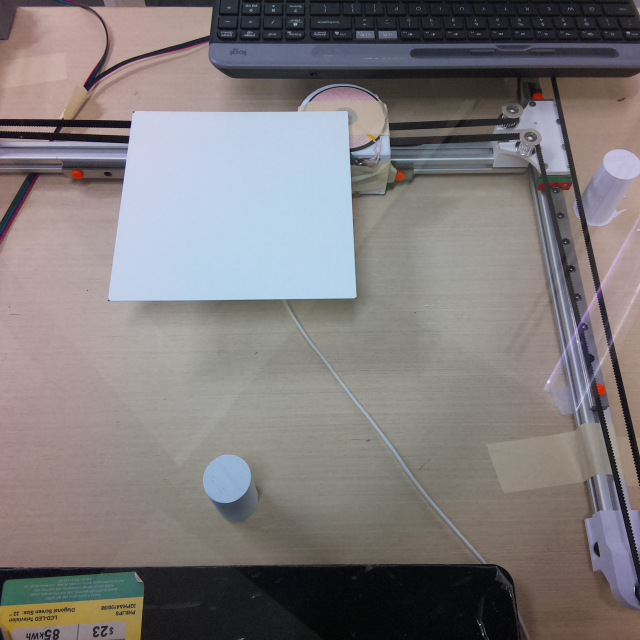
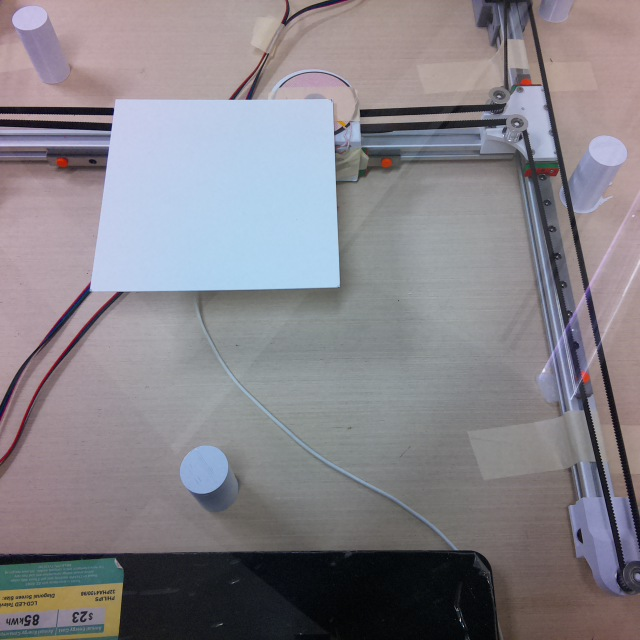
temp

diff --git a/remap.py b/remap.py
@@ -6,10 +6,10 @@ def remap_coor(x,y):
     # Define the four corners in the image
     # from the image perspective
     image_points = np.array([
-        [475.,  31.], # top right (origin)
-        [483., 234.], # bottom right
-        [230., 223.], # bottom left
-        [245.,  21.], # top left
+        [348., 113.], # top right (origin)
+        [356., 297.], # bottom right
+        [109., 300.], # bottom left
+        [135., 112.], # top left
     ], dtype=np.float32)
 
     # Define the real-world coordinates of the four corners
